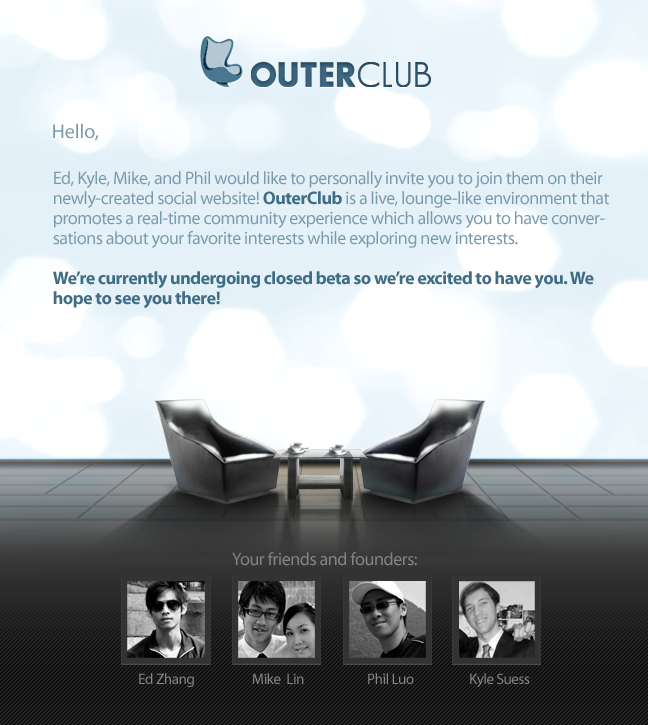
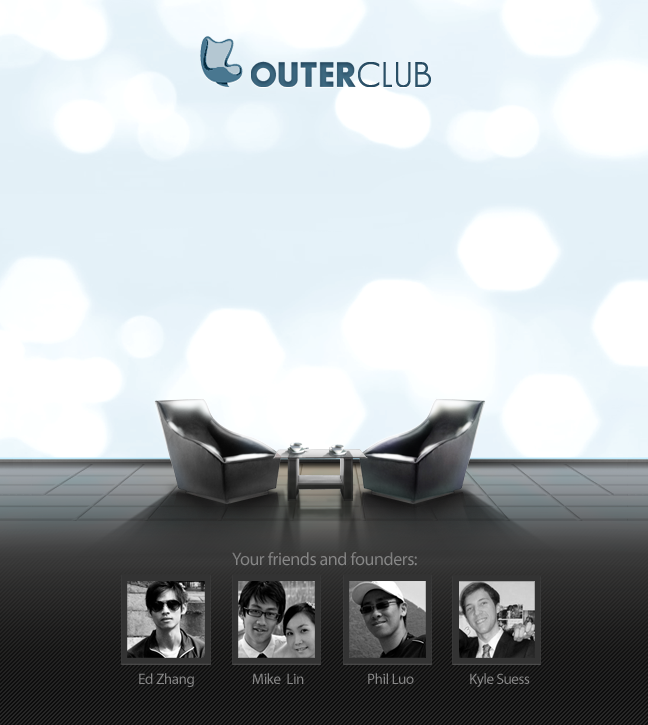
invitation style updates

Changed region(s): [[0.0617, 0.2428, 0.9259, 0.3338], [0.0617, 0.3641, 0.9259, 0.4248], [0.0926, 0.1517, 0.1543, 0.2124]]

diff --git a/oc/server/templates/invite.html b/oc/server/templates/invite.html
@@ -1,33 +1,15 @@
-<!DOCTYPE html PUBLIC "-//W3C//DTD XHTML 1.0 Transitional//EN" "http://www.w3.org/TR/xhtml1/DTD/xhtml1-transitional.dtd"> <html xmlns="http://www.w3.org/1999/xhtml">
-<head>
-<title>OuterClub Invitation</title>
-<style type="text/css">
-body {
-    background: url(http://outerclub.com/static/images/invitation.png) no-repeat;
-}
-#name {
-    position:absolute;
-    z-index:1;
-    top:120px;
-    left:104px;
-    font-weight:bold;
-    font-family:Arial, sans-serif;
-    color: #406c84;
-    font-size: 20px;
-}
-a {
-    position:absolute;
-    top:328px;
-    left:220px;
-    display:block;
-    width: 205px;
-    height: 54px;
-    background: url(http://outerclub.com/static/images/invitation_button.png) no-repeat;
-}
-</style>
-</head>
-<body>
-<div id="name">{{ name }}</div>
-<a href="http://outerclub.com/signup?k={{ key }}" />
+<html>
+<body  style="margin:0;padding:0;background-color:white">
+
+<table style=" height: 725px; width: 648px;background-color: white;">
+<tr><td valign="top" background="http://outerclub.com/static/images/invitation.png">
+<div style="padding: 110px 0 0 50px; font-family:Arial,sans-serif;font-size:20px;color:#799aac;line-height:21px;width:550px">Hello, <b style="color: #406c84">{{ name }}</b><br /><br />Ed, Kyle, Mike and Phil would like to personally invite you to join them on their newly-created social website! <b>OuterClub</b> is a live, lounge-like environment that promotes a real-time community experience which allows you to have conversations about your favorite interests while exploring new interests.<br /><b>We're currently undergoing closed beta so we're excited to have you. We hope to see you there!</b></div>
+<div style="padding: 15px 0 340px 220px">
+<table style="height:54px; width:205px;background-color:white;">
+<tr><td align="center" valign="top" style="padding-top:14px;padding-bottom:17px" background="http://outerclub.com/static/images/invitation_button.png"><a style="font-family: Arial;font-size: 20px;font-weight:bold;text-decoration:none;color:#799aac" target="_blank" href="http://outerclub.com/signup?k={{ key }}">Sign up</a>
+</td></tr>
+</div>
+</td></tr>
+</table>
 </body>
 </html>

diff --git a/oc/server/templates/index.html b/oc/server/templates/index.html
@@ -95,7 +95,8 @@ Welcome
 						<h2>If you enjoy conversation, you belong here.</h2>
                     </div>
                     <div class="right">
-						<p>OuterClub is an online lounge that acts as your second social life. You and your friends are invited to connect to our global community and discuss your favorite interests and explore new interests. Come participate in a real-time community through instant feeds so you can see and overhear conversations right as they happen, making you a part of a community that is truly alive.</p><br /><p>Our mission is to give everyday users a platform that’s easy to engage in casual conversations, while maintaining a stylish/modern/real-time environment. At the end of the day, we care about people first, and content second.</p>
+						<p>OuterClub is an online lounge that acts as your second social life. You and your friends are invited to connect to our global community and discuss your favorite interests and explore new interests. Come participate in a real-time community through instant feeds so you can see and overhear conversations right as they happen, making you a part of a community that is truly alive.</p><br />
+<p>Our mission is to provide users with a platform that's easy to engage in casual conversations with the best real-time experience, and within a lively and social atmosphere. </p>
                     </div>
 				</div>
 				<div class="about_content even">

diff --git a/oc/server/templates/sender.html b/oc/server/templates/sender.html
@@ -1,0 +1,6 @@
+<form method="post" action="/invite">
+name: <input type="text" name="name"/><br />
+email: <input type="text" name="email" /><br />
+<input type="submit" name="submit" value="Submit" />
+</form>
+

diff --git a/oc/server/server.py b/oc/server/server.py
@@ -16,6 +16,7 @@ import re
 from ..rtg.t_rtg import RtgService
 from ..rtg.t_rtg.ttypes import *
 
+import smtplib
 from thrift import Thrift
 from thrift.transport import TSocket
 from thrift.transport import TTransport
@@ -397,8 +398,9 @@ def login():
         flask.flash('User or password was not valid.');
         return displaySignup()
 
-@app.route('/invite')
+@app.route('/invite',methods=['GET','POST'])
 def invite():
+    #return render_template('invite.html',name='test')
     if not isLoggedIn():
         return ''
     conn = app.config['pool'].connection()
@@ -409,15 +411,25 @@ def invite():
         cur.close()
         conn.close()
         return ''
+    
+    if request.method == 'GET': 
+        return render_template('sender.html')
 
-    name = 'unknown name'
-    if 'name' in request.args:
-        name = request.args['name'] 
-    key = str(uuid.uuid4())[:7]
-    cur.execute('insert into invite_key (email,code,myDate) values ("",%s,NOW())',(key,))
-    cur.close()
-    conn.close()
-    return render_template('invite.html',name=name,key=key)
+    ret = ''
+    if 'name' in request.form and 'email' in request.form:
+        name = request.form['name'] 
+        email = request.form['email']
+
+        key = str(uuid.uuid4())[:7]
+        cur.execute('insert into invite_key (email,code,myDate) values (%s,%s,NOW())',(email,key))
+        cur.close()
+        conn.close()
+        
+        data = render_template('invite.html',name=name,key=key)
+        util.send(email,'%s, welcome to OuterClub!' % (name),data)
+        return 'sent to %s<br /><br /><br /><br />%s' % (email,data)
+    return ret
+         
     
 @app.route('/signup',methods=['GET','POST'])
 def signup():

diff --git a/oc/server/util.py b/oc/server/util.py
@@ -1,5 +1,7 @@
 import re
 import cgi
+import smtplib
+from email.mime.text import MIMEText
 
 qtext = '[^\\x0d\\x22\\x5c\\x80-\\xff]'
 dtext = '[^\\x0d\\x5b-\\x5d\\x80-\\xff]'
@@ -69,5 +71,18 @@ def findMentions(cur,data):
 
 class Upvote:
     UserType = 0
-                
+
+def send(to,subject,msg):
+    m = MIMEText(msg,'html')
+    fro = '"OuterClub" <outerclub@gmail.com>'
+    m['From'] = fro
+    m['To'] = to
+    m['Subject'] = subject
+    username = 'outerclub'
+    password = 'stayfr3sh'
+    server = smtplib.SMTP('smtp.gmail.com:587')
+    server.starttls()
+    server.login(username,password)
+    server.sendmail(fro,to,m.as_string())
+    server.quit()
 
